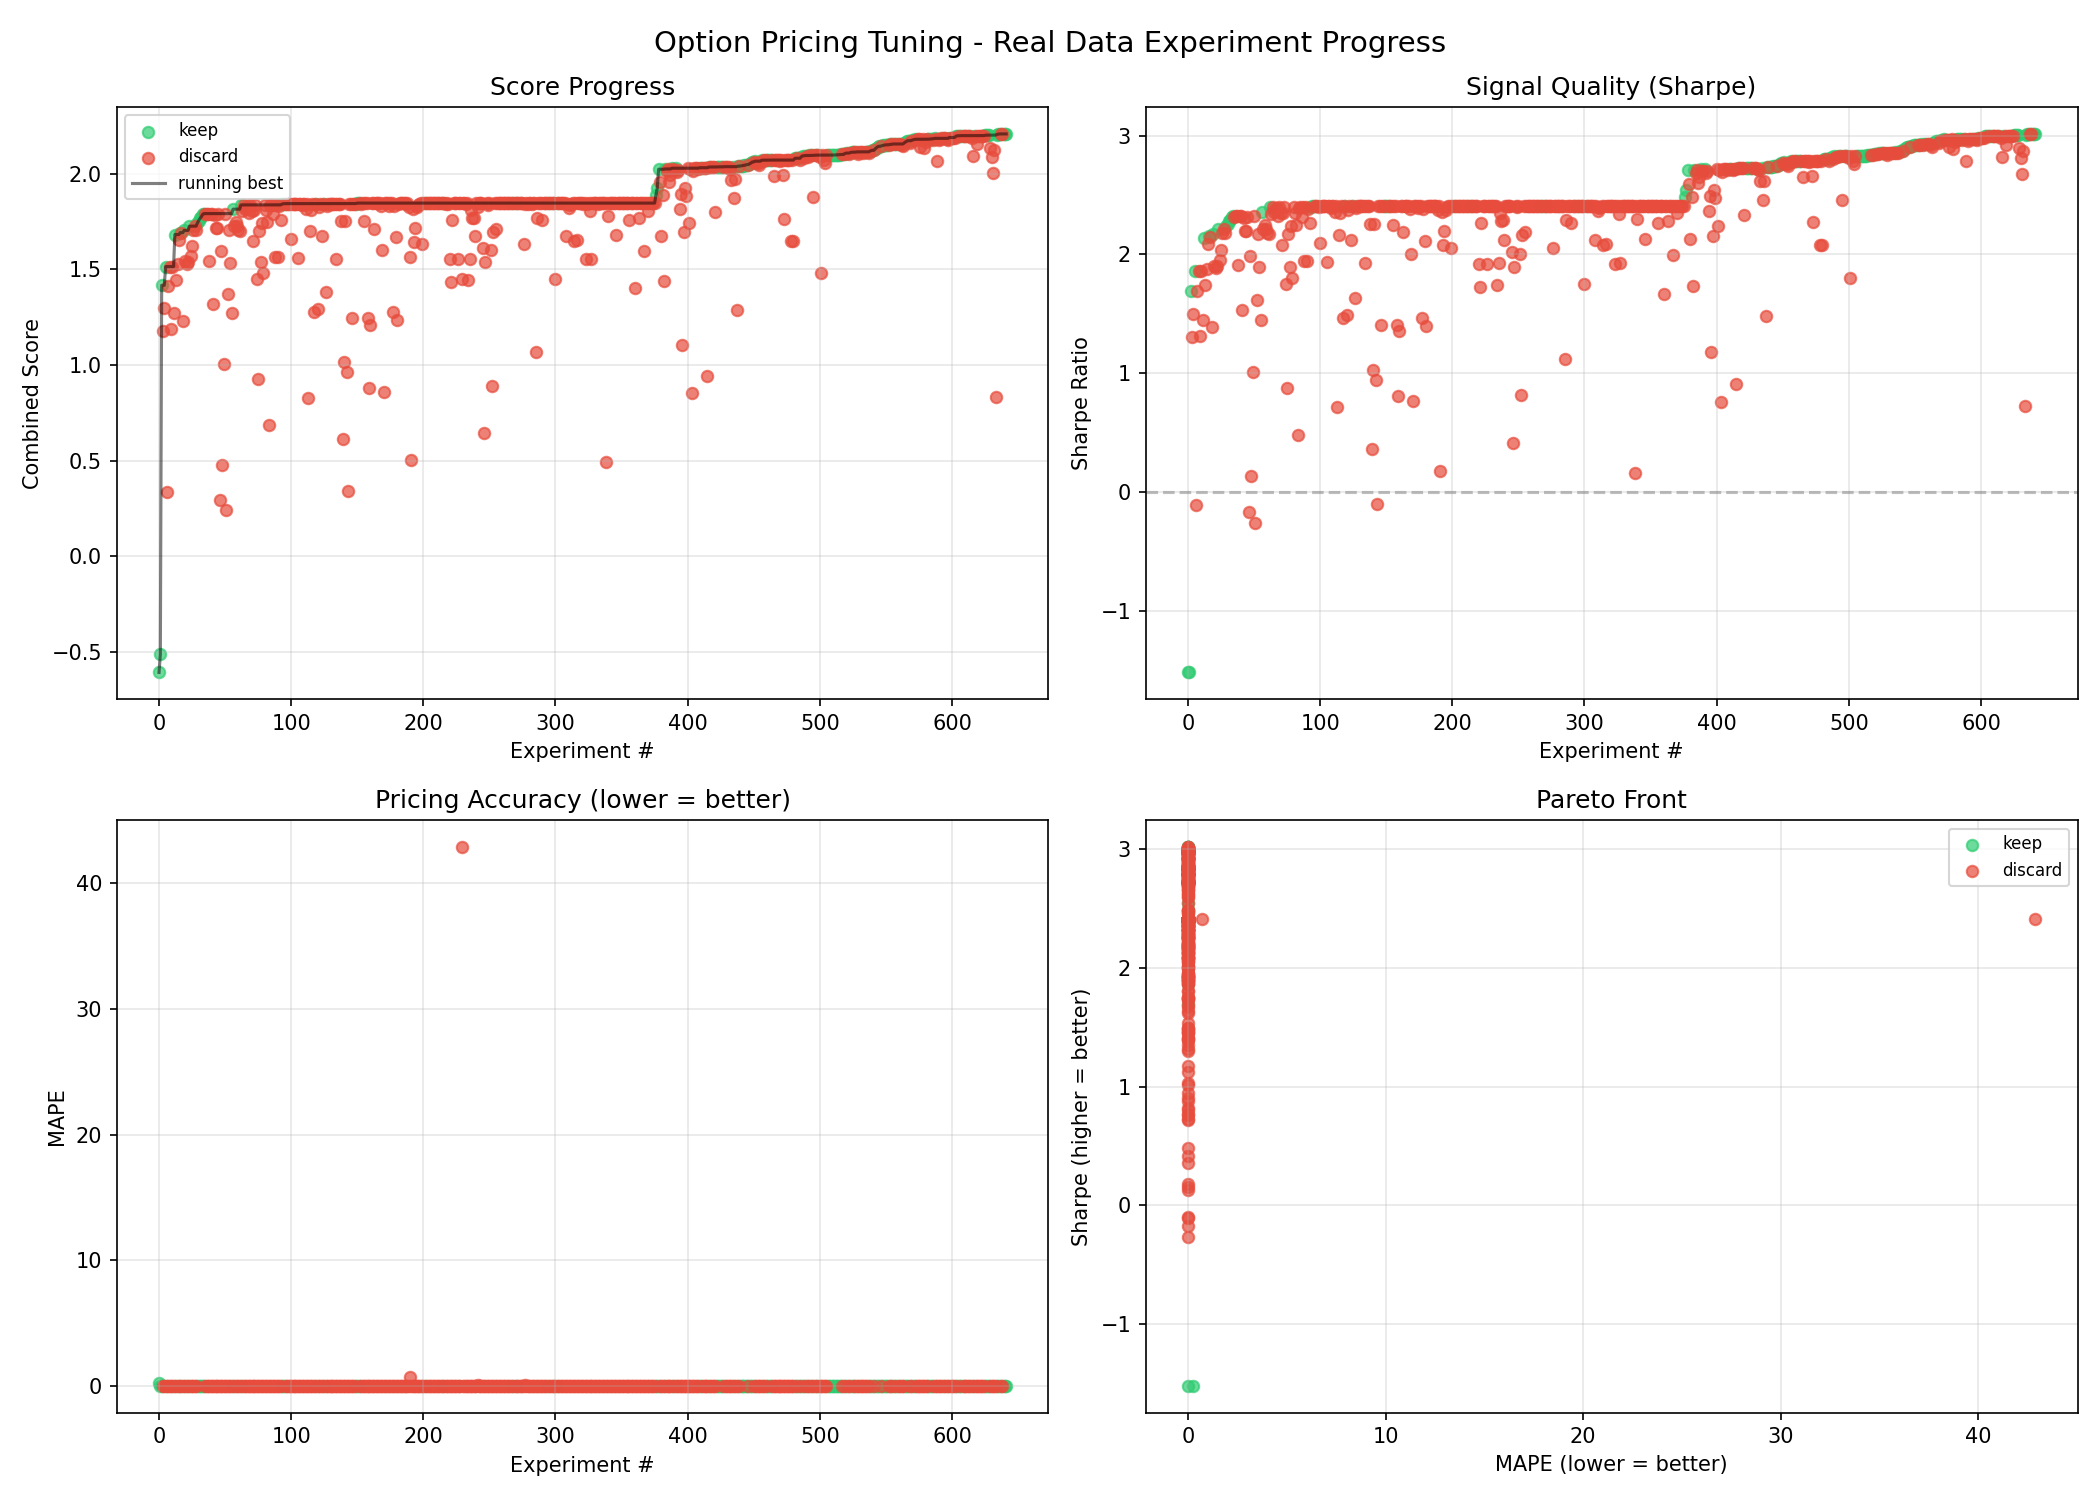
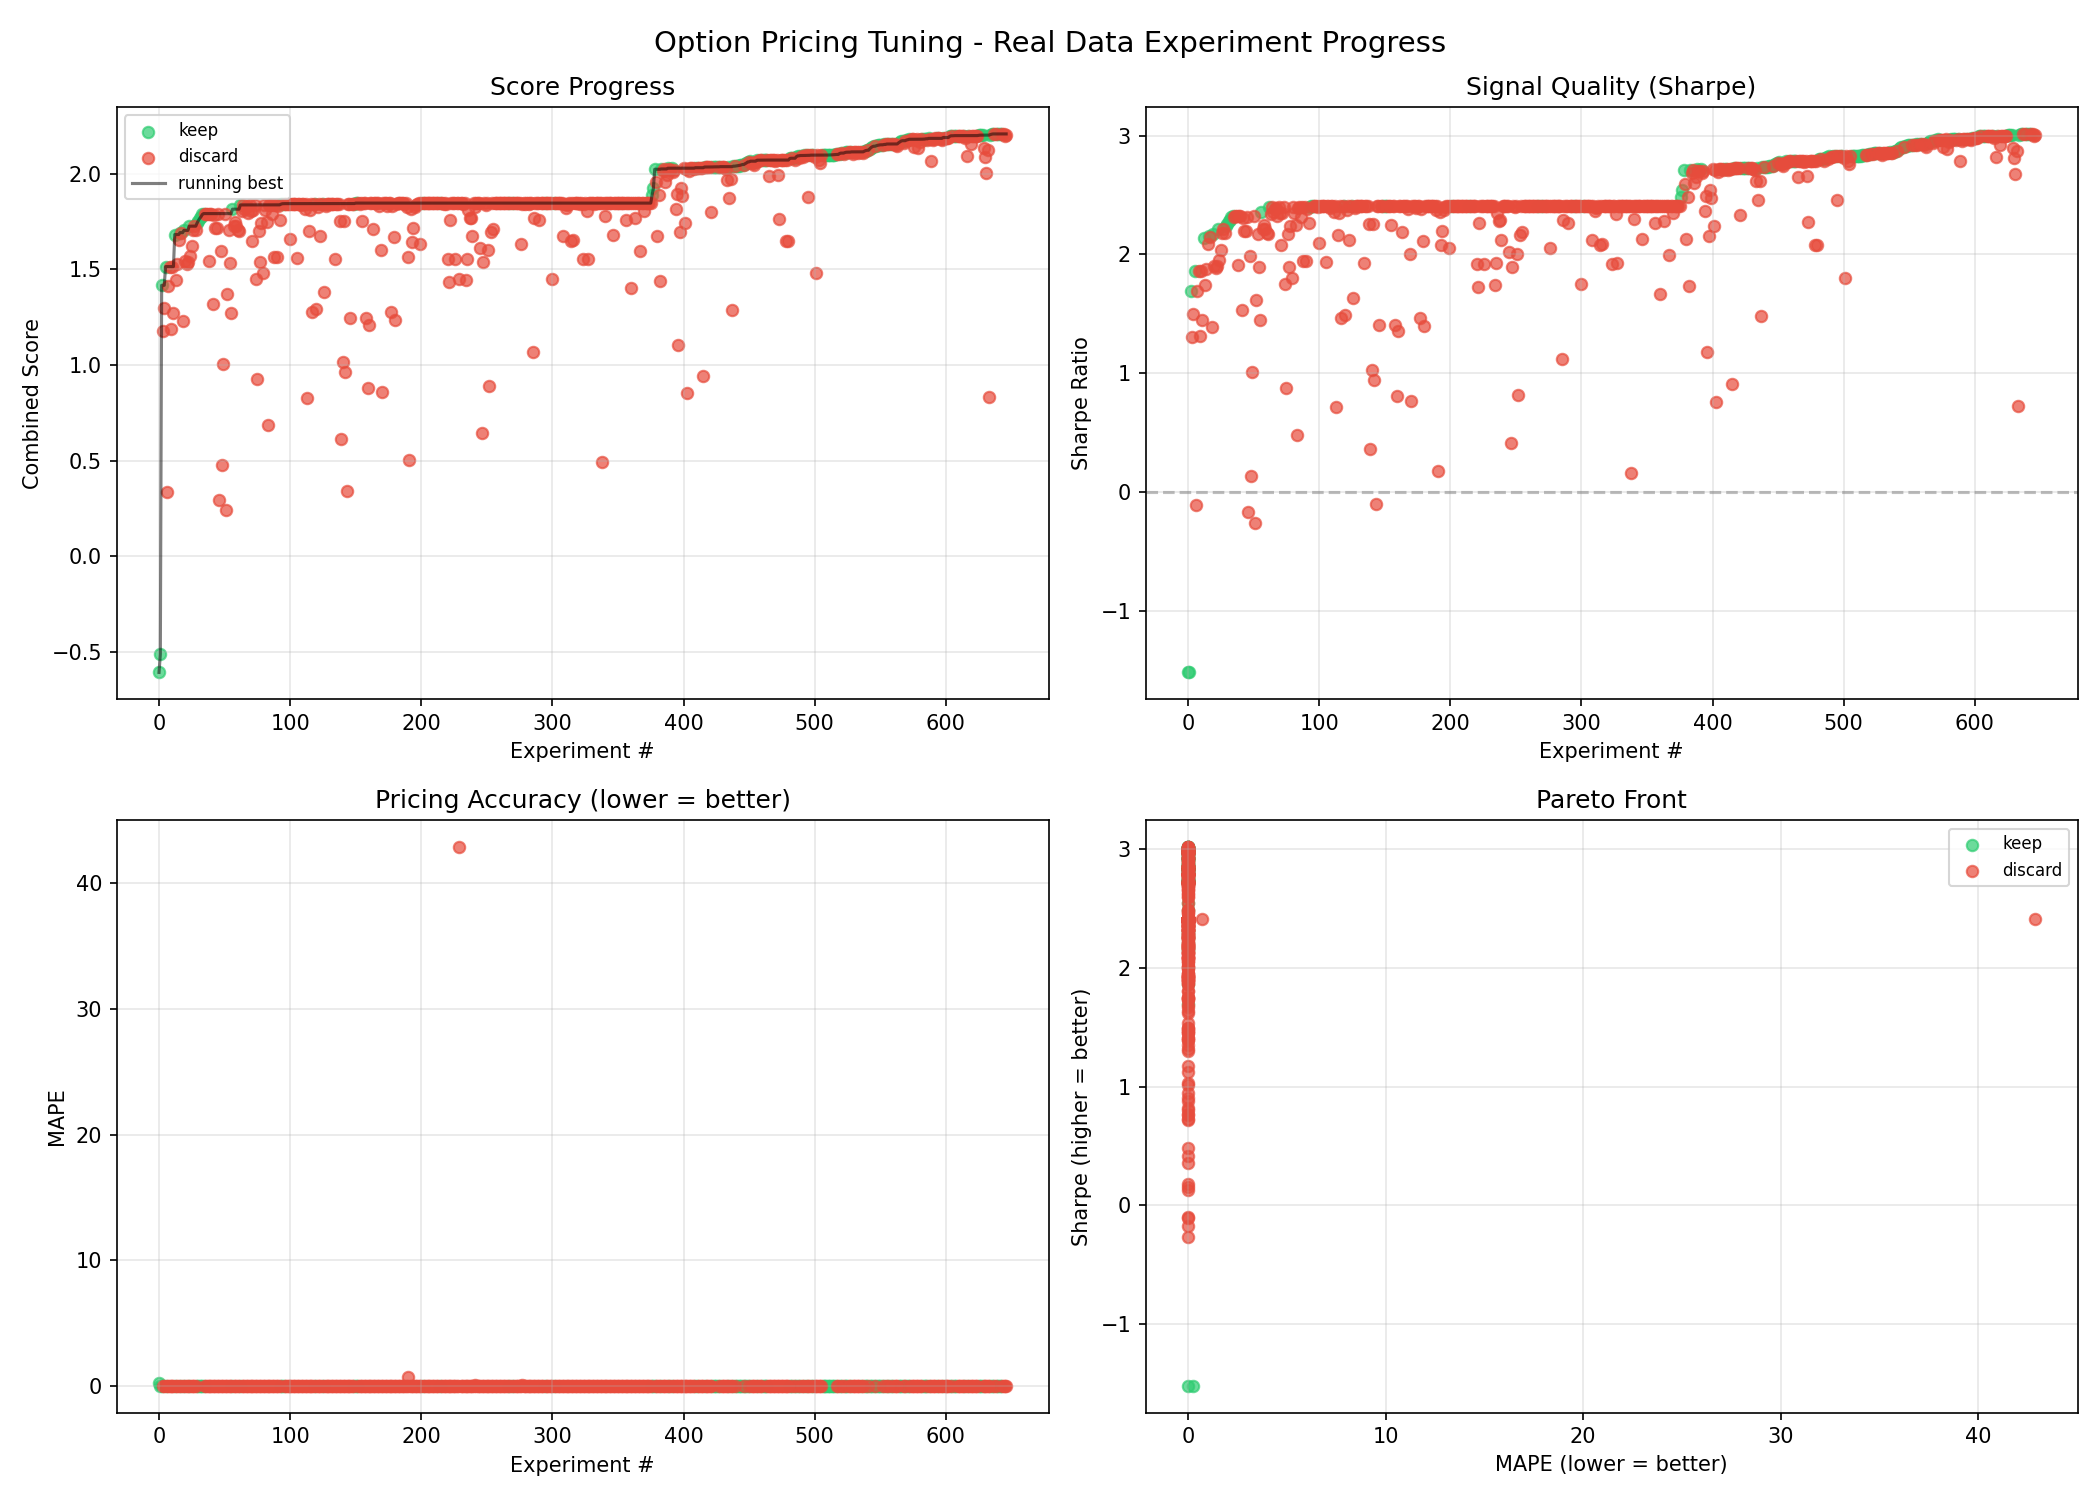
log exp647

diff --git a/README.md b/README.md
@@ -14,7 +14,7 @@ signals using **real stock market data** from Yahoo Finance.
 | MAPE | 0.002003 |
 | Win Rate | 92.6% |
 | Trades | 27 |
-| Experiments | 642 (138 kept) |
+| Experiments | 647 (139 kept) |
 
 ## How It Works
 
